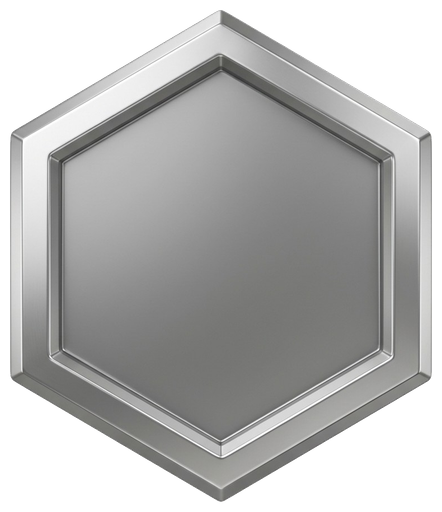
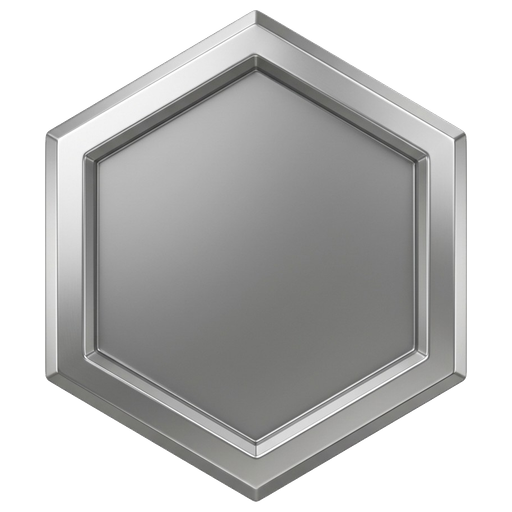
fix(creator-shop): pad badge template to 512x512 so it passes the 1:1 check
The shipped badge.png was 442x512, failing the badge's 1:1-within-2% submit rule.
Padded with transparent columns (35px each side); art is pixel-identical.
Adds a test that every shipped template passes its own rule.

Agent: @ag_a343075191074327

Changed region(s): [[0.0, 0.0312, 1.0, 0.9688]]

diff --git a/src/server/__tests__/cosmetic-templates.test.ts b/src/server/__tests__/cosmetic-templates.test.ts
@@ -1,0 +1,35 @@
+import { readFileSync } from 'node:fs';
+import { join } from 'node:path';
+import { describe, expect, it } from 'vitest';
+import {
+  cosmeticDimensionsPass,
+  cosmeticImageRequirements,
+} from '~/server/schema/creator-shop.schema';
+import { CosmeticType } from '~/shared/utils/prisma/enums';
+
+const TEMPLATES_DIR = join(process.cwd(), 'public/images/cosmetic-templates');
+
+const readPngHeader = (file: string) => {
+  const buf = readFileSync(join(TEMPLATES_DIR, file));
+  const colorType = buf[25];
+  return {
+    width: buf.readUInt32BE(16),
+    height: buf.readUInt32BE(20),
+    hasAlphaChannel: colorType === 4 || colorType === 6,
+  };
+};
+
+describe('shipped Creator Shop templates', () => {
+  it.each([
+    ['badge.png', CosmeticType.Badge],
+    ['avatar-frame.png', CosmeticType.ProfileDecoration],
+    ['profile-background.png', CosmeticType.ProfileBackground],
+  ])('%s passes its own submit-side dimension rule', (file, type) => {
+    const req = cosmeticImageRequirements(type);
+    const { width, height, hasAlphaChannel } = readPngHeader(file);
+    expect({ width, height, pass: cosmeticDimensionsPass(req, width, height) }).toMatchObject({
+      pass: true,
+    });
+    if (req.requireTransparency) expect(hasAlphaChannel).toBe(true);
+  });
+});
